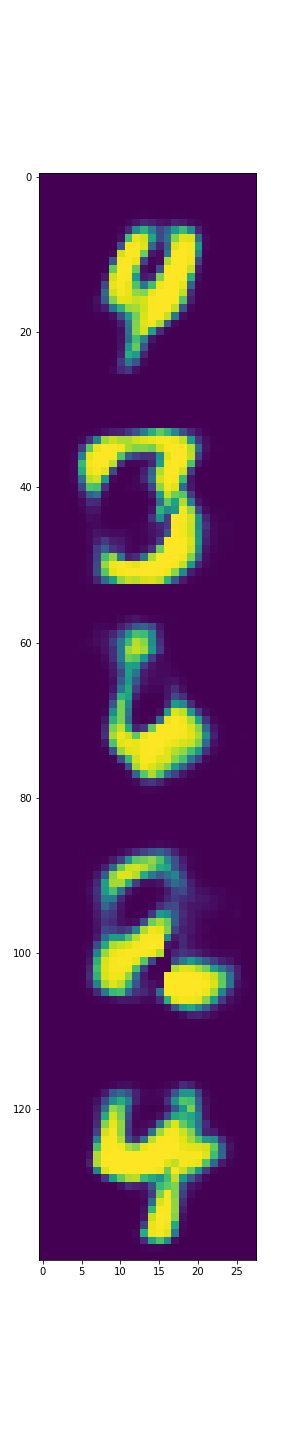
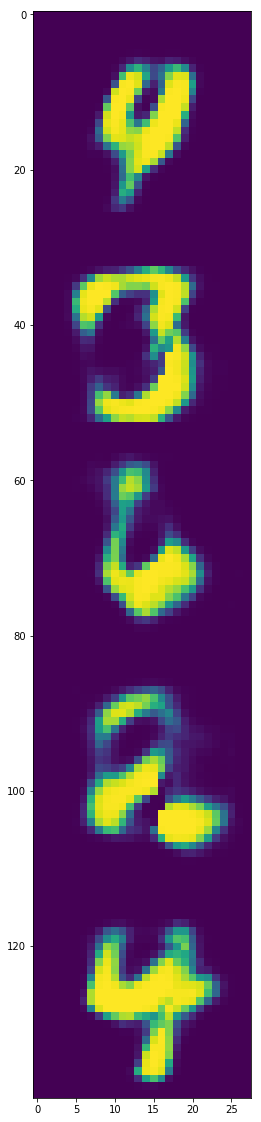
refine vae

diff --git a/vae/README.md b/vae/README.md
@@ -121,14 +121,10 @@ img = torch.cat(torch.unbind(x, dim=0)).cpu().numpy()
 ```{.python .input}
 plt.figure(figsize=(4, 20))
 plt.imshow(img)
-#plt.savefig("../images/vae-1.png")
+plt.savefig("../images/vae-1.png", bbox_inches='tight')
 ```
 
 ![](../images/vae-1.png)
-
-```{.python .input}
-
-```
 
 ```{.python .input}
 
